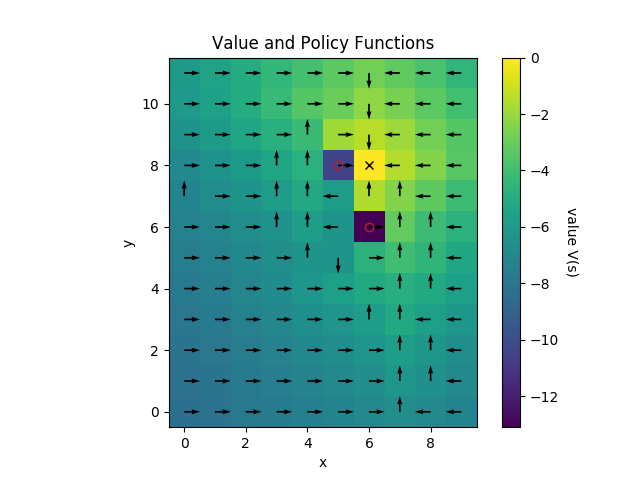
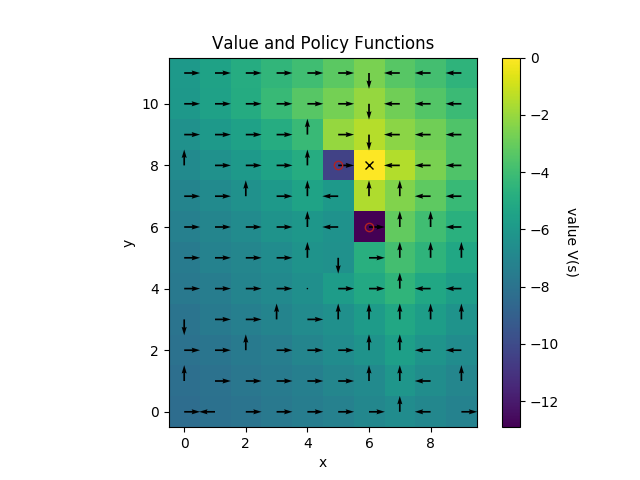
Reduce epsilon in solve_value_fn, add updated plots

diff --git a/windy_gridworld.py b/windy_gridworld.py
@@ -22,6 +22,7 @@ POLICY_ITERATION = "policy_iteration"
 SARSA = "sarsa"
 Q_LEARNING = "q_learning"
 
+
 def is_valid_probability(x):
     return 0.0 <= x <= 1.0, "Probabilities must be between 0 and 1 (inclusive)"
 
@@ -156,7 +157,7 @@ class WindyGridworld:
 
         return updated_value
 
-    def solve_value_fn(self, max_iterations=50, value_epsilon=0.001):
+    def solve_value_fn(self, max_iterations=50, value_epsilon=0.00001):
 
         for iteration in range(max_iterations):
 
@@ -285,7 +286,9 @@ class WindyGridworld:
                 reward = self.get_reward(x, y)
 
                 self.Q[Q_LEARNING][x, y, action_idx] += step_size * (
-                    reward + self.discount * Q_next - self.Q[Q_LEARNING][x, y, action_idx]
+                    reward
+                    + self.discount * Q_next
+                    - self.Q[Q_LEARNING][x, y, action_idx]
                 )
 
                 x, y = (x_next, y_next)
